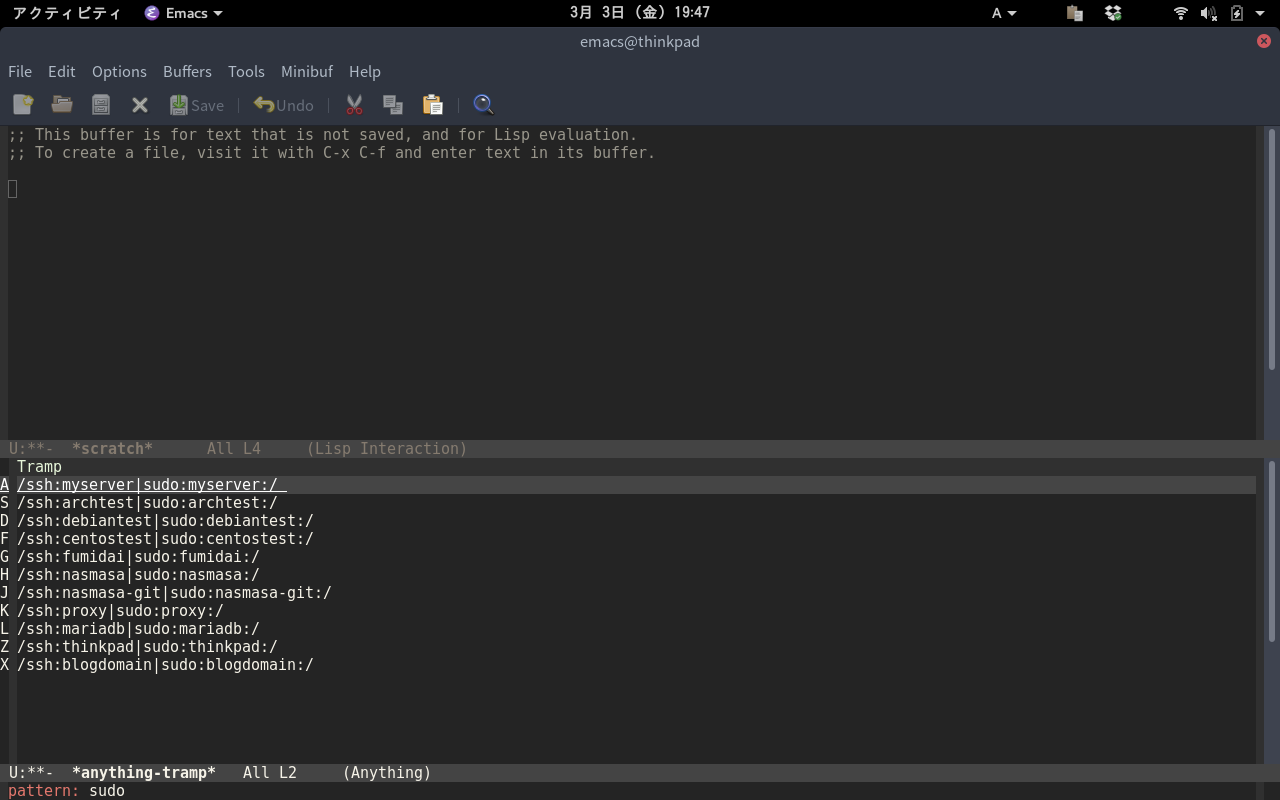
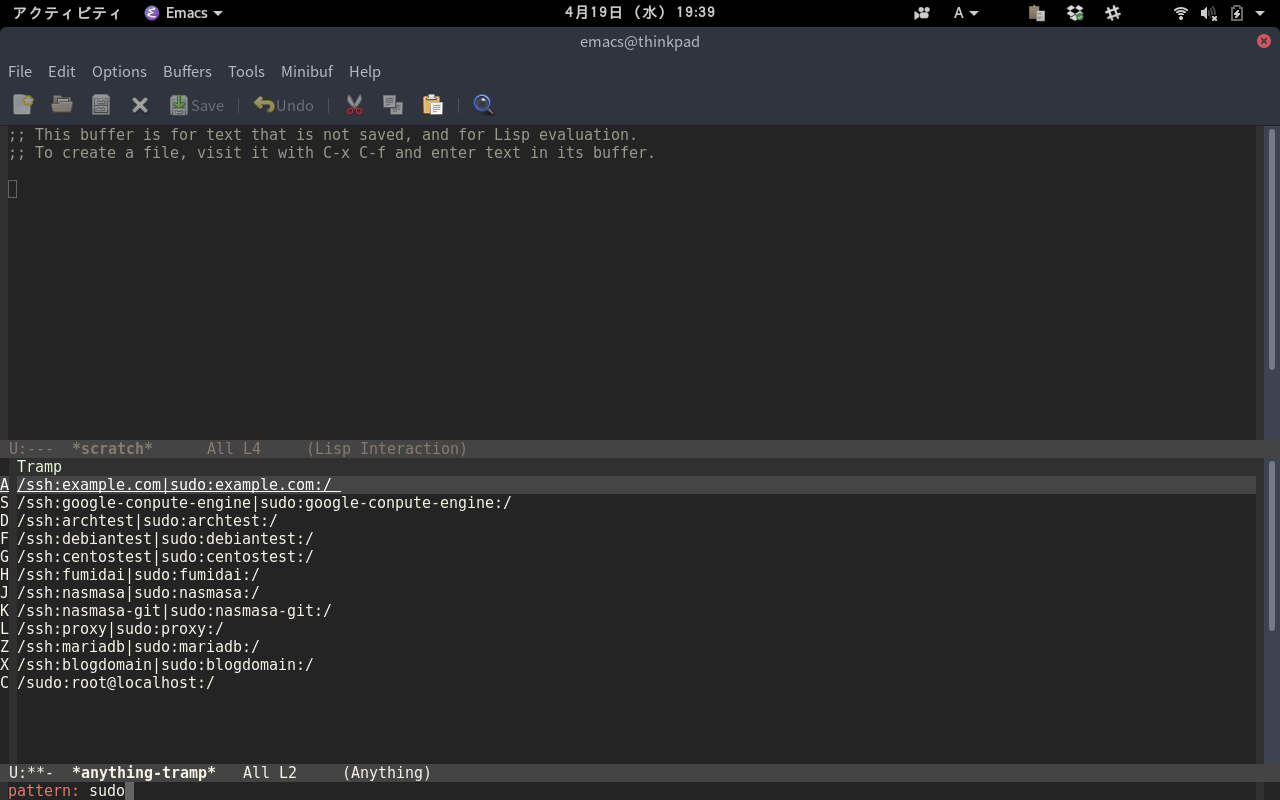
Update document

diff --git a/README.md b/README.md
@@ -24,6 +24,8 @@ You can connect your server with tramp.
 
 Selecting the list with sudo will lead to the server as root.
 
+Selecting the list of '/sudo:root@localhost:/' will open file at localhost as root.
+
 ![anything-tramp5](image/image5.png)
 
 You can edit your server's nginx.conf on your emacs!.
